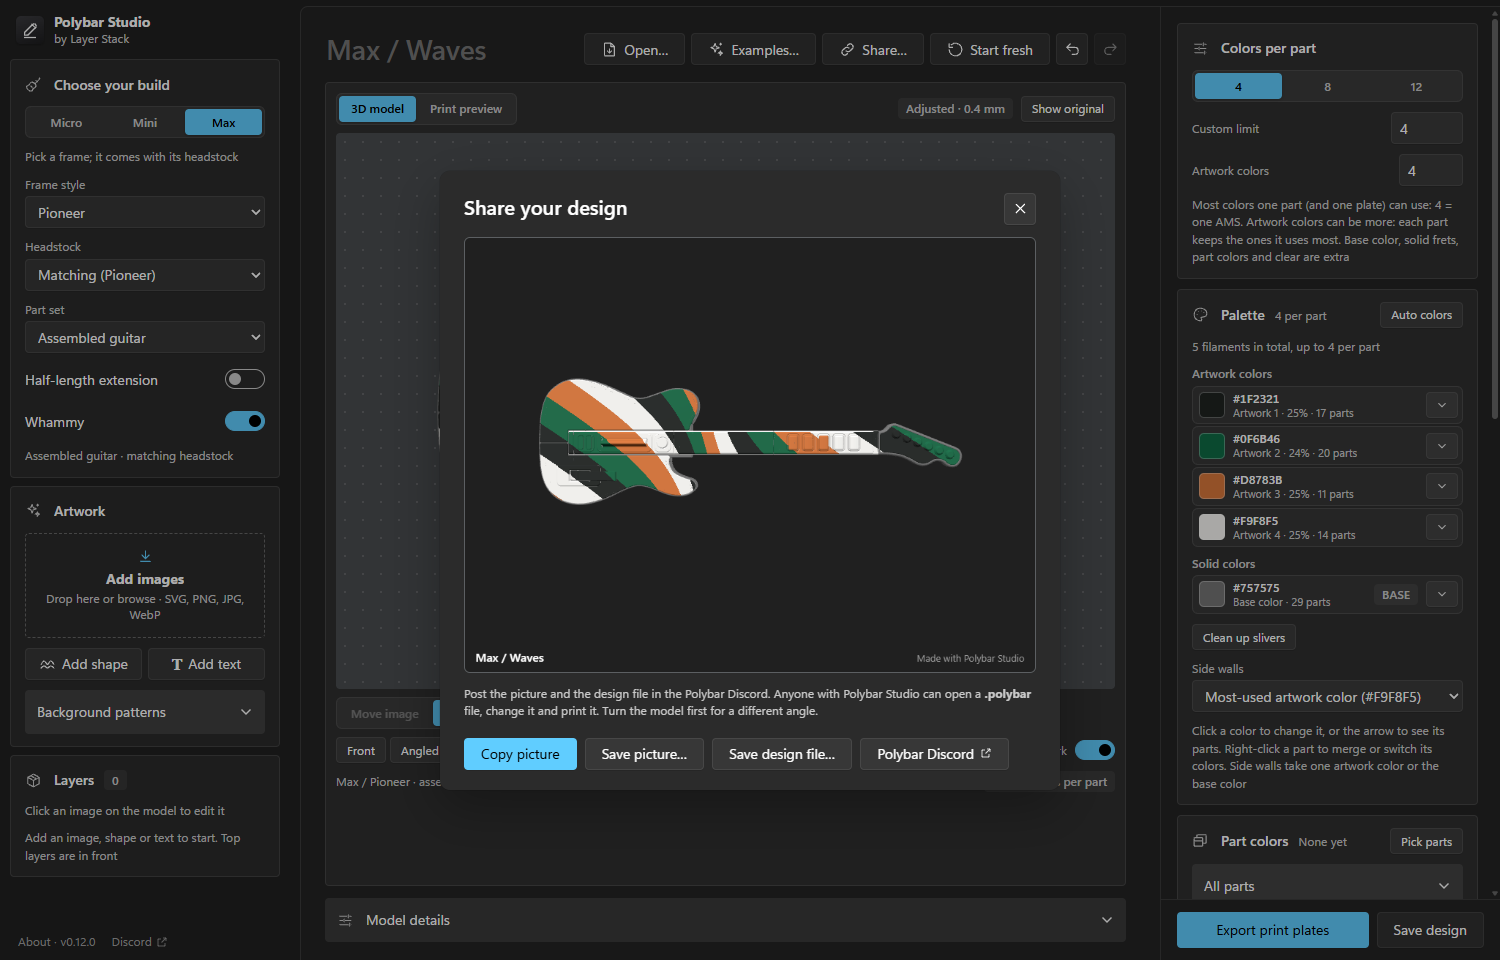
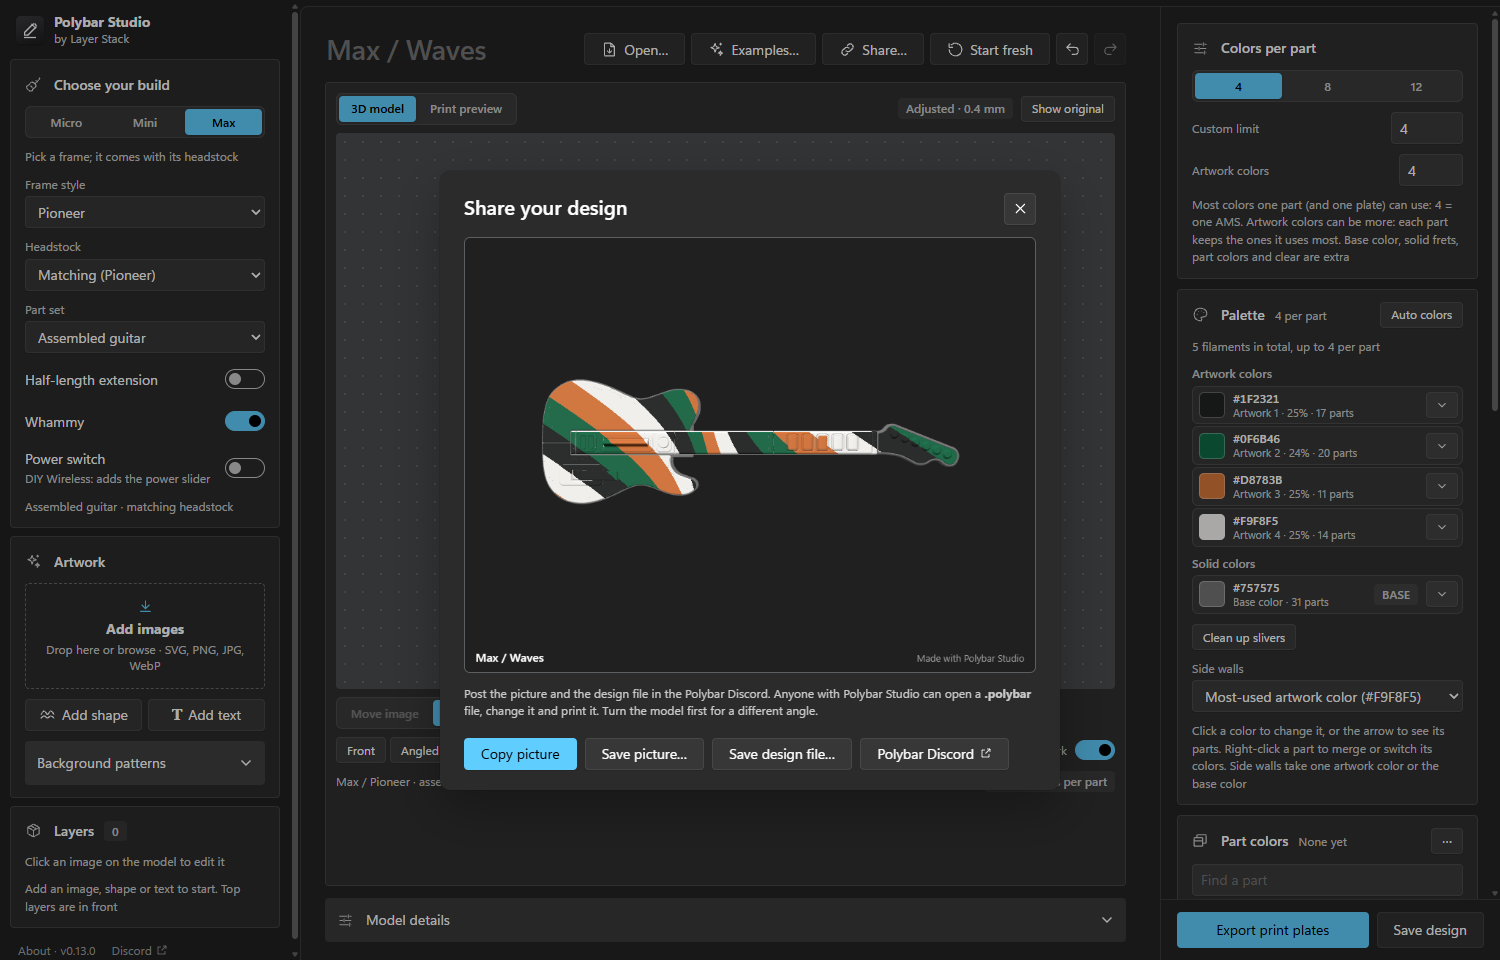
0.13.0: README, screenshots

diff --git a/README.md b/README.md
@@ -2,7 +2,7 @@
 
 Paint your Polybar Micro, Mini or Max, then get a print-ready Bambu Studio project for your Bambu Lab printer.
 
-[![Download for Windows](https://img.shields.io/badge/Download_for_Windows-Polybar_Studio_0.12.0-0078D4?style=for-the-badge&logo=windows)](https://github.com/3D-Printed-Controller-Systems/Polybar-Studio-Release/releases/latest/download/Polybar-Studio-Windows.exe)
+[![Download for Windows](https://img.shields.io/badge/Download_for_Windows-Polybar_Studio_0.13.0-0078D4?style=for-the-badge&logo=windows)](https://github.com/3D-Printed-Controller-Systems/Polybar-Studio-Release/releases/latest/download/Polybar-Studio-Windows.exe)
 
 Windows 10 or 11, 64-bit · about 50 MB · works offline · [all releases](https://github.com/3D-Printed-Controller-Systems/Polybar-Studio-Release/releases) · share your designs in the [Polybar Discord](https://discord.gg/wBRdgxEGhe)
 
@@ -31,7 +31,8 @@ Under **Choose your build**, pick **Micro**, **Mini** or **Max**.
 - **Half-length extension** (a switch) makes any Mini or Max longer by 85 mm (on a Max it goes after the full extension). It works with every frame.
 - **Mini** and **Max** have a **Frame style** list (Airbourne, Diablo, Maverick, Nomad, Offset, Pioneer, Renegade, Vampire, Wizard). Choose **No frame** for the bare controller.
 - **Headstock:** a Max frame comes with its matching headstock. Any Mini or Max can take any family's headstock from the **Headstock** list (on a Mini it's off by default: it's sized for the Max).
-- **Whammy** (a switch, on a Max with a frame): turn it off if you don't want a whammy. The whammy chassis and bar then leave the preview and the export. A plug to close the opening is coming; until then the opening stays empty.
+- **Whammy** (a switch, on a Max with a frame): turn it off if you don't want a whammy. The whammy chassis, bar, magnet paddle and its two pivot pins then leave the preview and the export. A plug to close the opening is coming; until then the opening stays empty.
+- **Power switch** (a switch, off by default): leave it off for the USK boards, which have the power circuit built in; every color plate opening then gets a blank plate. Turn it on for a **DIY Wireless** build: the strum housing gets the power slider (its color plate, toggle plate and switch) instead of a blank.
 - **Part set** (under Headstock) switches the preview between the assembled guitar, the frame only, and the headstock. Your artwork stays in the same place in every view. **Frame only** shows just the frame; artwork stops where the housing covers it on the finished guitar.
 
 Drag in the preview to rotate, scroll to zoom (it zooms toward the mouse pointer), right-drag to pan. Right-drag pans even while an image is selected, so you can zoom in on a horn or the headstock and move around while you place artwork. **Front**, **Angled** and **Back** jump to a view.
@@ -95,12 +96,14 @@ A part never goes over Colors per part: if your changes would push it over, it s
 
 Any part can have a solid color of its own, so you can print every part in a different color if you like.
 
-1. Click **Pick parts** (under the preview, or in the **Part colors** card). The part under the mouse pointer lights up.
+1. Click **Pick parts** (under the preview). The part under the mouse pointer lights up.
 2. Click a part on the model to pick it (it turns blue); **Ctrl**-click picks more, or unpicks one. Clicking empty space clears the pick.
-3. Click **Color…** to choose its color, or **Use default** to give it back the design's colors.
+3. In the bar at the top of the Part colors card, click **Color…** to choose its color, or **×** to give it back the design's colors.
 4. Click **Rotate model** or press **Esc** to stop picking.
 
-**All parts** (in the Part colors card) lists every part by where it goes: Strum case, Fret case, Extensions, Housing, Frame, Headstock, and Assembly parts (the color plates, power slider and pivot pins, which aren't in the preview). Each part shows what it prints: **Artwork** with a dot for each color, **Base color**, **Fret color**, **Own color** or **Clear**. Click a part to pick it there, right-click it for its menu, and type in **Find a part** to filter the list. Picking a part on the model opens the list at that part. **Reset all parts** gives every part the design's colors again.
+The Part colors card lists the parts you've given a color of their own, each with a swatch on the right (click it to change that color). **Find a part** searches every part. **All parts** lists them all in folded groups by where they go: Strum case, Fret case, Extensions, Housing, Frame, Headstock, and Assembly parts. Identical parts are one row ("Fret - Window ×5"): click it to pick all of them, or open it with the arrow for each one. A part's dot shows what it prints (hover for the name: Artwork, Base color, Fret color, Own color or Clear). Click a row to pick it, right-click it for its menu. Picking a part on the model opens the list at that part. **⋯ › Reset all parts** gives every part the design's colors again.
+
+**Every part of the finished controller is in the model**, so you can see and color them: the color plates in the bottom housings, the pivot pins (two for the strum bar, two more for a whammy), the whammy's magnet paddle, the frame's two strap lugs, the Micro's PCB braces, the Vampire headstock's four tuner tabs, and with the Power switch on the power slider. Most sit underneath or inside: use the **Back** view, or find them in All parts. They print in the base color unless you give them a color.
 
 Each color of its own is one more filament. It never counts toward Colors per part; the export puts parts on as many plates as it needs.
 
@@ -147,7 +150,7 @@ Click **Export print plates**.
 - The dialog shows what you'll get (plates for your printer and nozzle, up to your colors per part on each plate) and the filaments to load.
 - **Advanced** (folded by default):
   - **Which pieces?** Everything, only the colored pieces, only the clear pieces, or pieces you pick from the list, grouped by Strum case, Fret case, Extensions, Frame and Headstock.
-  - **Assembly parts** (on by default): the color plates, power slider and pivot pins (and on a Micro the PCB braces) in the base color.
+  - **Assembly parts** (on by default): the color plates, pivot pins and strap lugs (and the power slider with the Power switch on, and on a Micro the PCB braces), in the base color unless given a color.
   - **Color test tile** and **LED test tile** (off by default): add a 60 × 32 mm tile of your colors, or the LED test tile (see LED light above), to the bundle's `Test-tiles` folder.
 - Click **Prepare export**. A progress bar shows about how long is left; when it says **Ready**, click **Save…** and choose where to put it.
 
@@ -208,6 +211,8 @@ In the slicer, pick your actual filament profiles, check that each color goes to
 ## Releases
 
 Each release lists the installer's SHA-256 and the [Development](https://github.com/3D-Printed-Controller-Systems/Polybar-Studio-Development) commit it was built from.
+
+**0.13.0**: **every part of an assembled Polybar** in the model and the export: color plates in each housing opening, both strum pivot pins, the whammy's two pivot pins and magnet paddle, two strap lugs per frame, the Vampire's four tuner tabs (all in the base color unless you color them); a **Power switch** setting (off for USK boards: all blank color plates; on for DIY Wireless: the power slider); a simpler **Part colors** card (your colored parts first, search, folded groups, identical parts as one row).
 
 **0.12.0**: **Undo and redo** (Ctrl + Z / Ctrl + Y, up to 50 steps, even after Start fresh); right-click a part **on the 3D model** for its color menu; **Find a part** in All parts, and picking a part on the model jumps to it there; **Esc** stops picking; round color dots and full part names in the parts lists; a keyboard shortcuts table in this guide.
 
